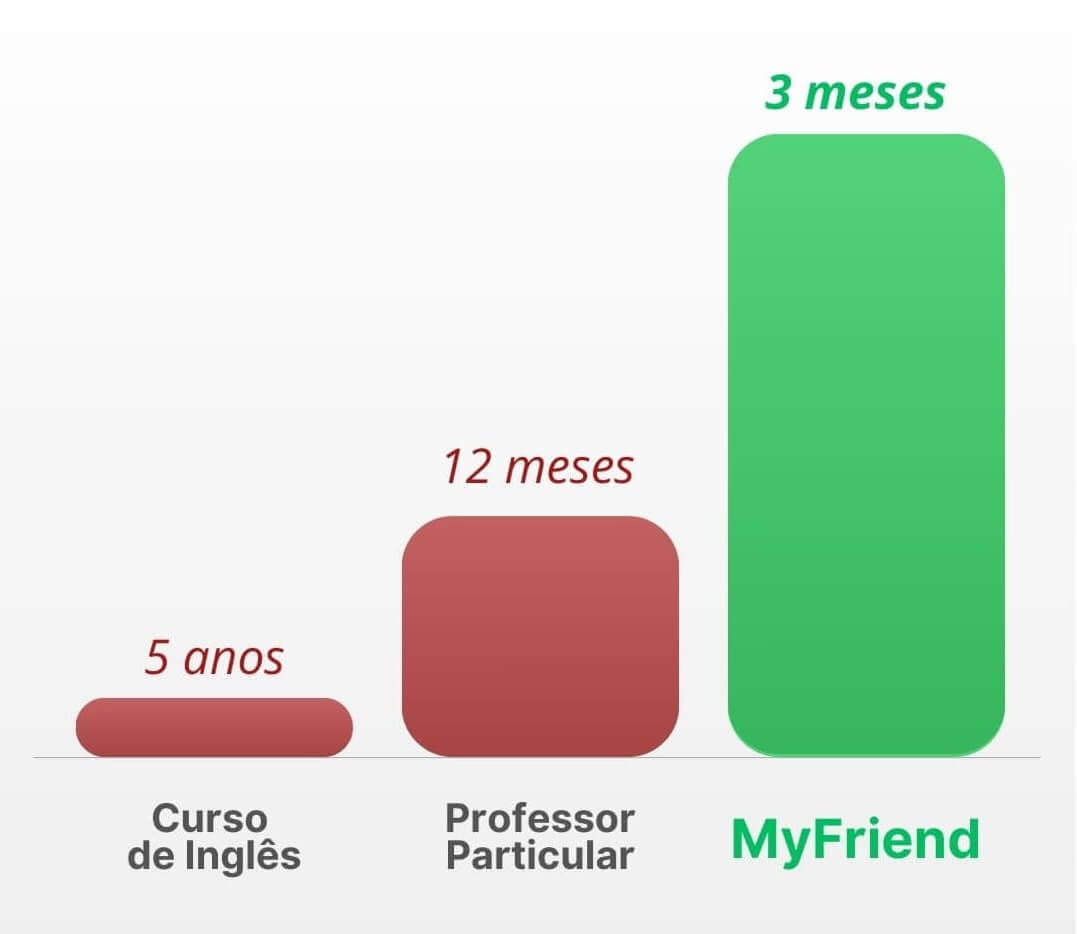
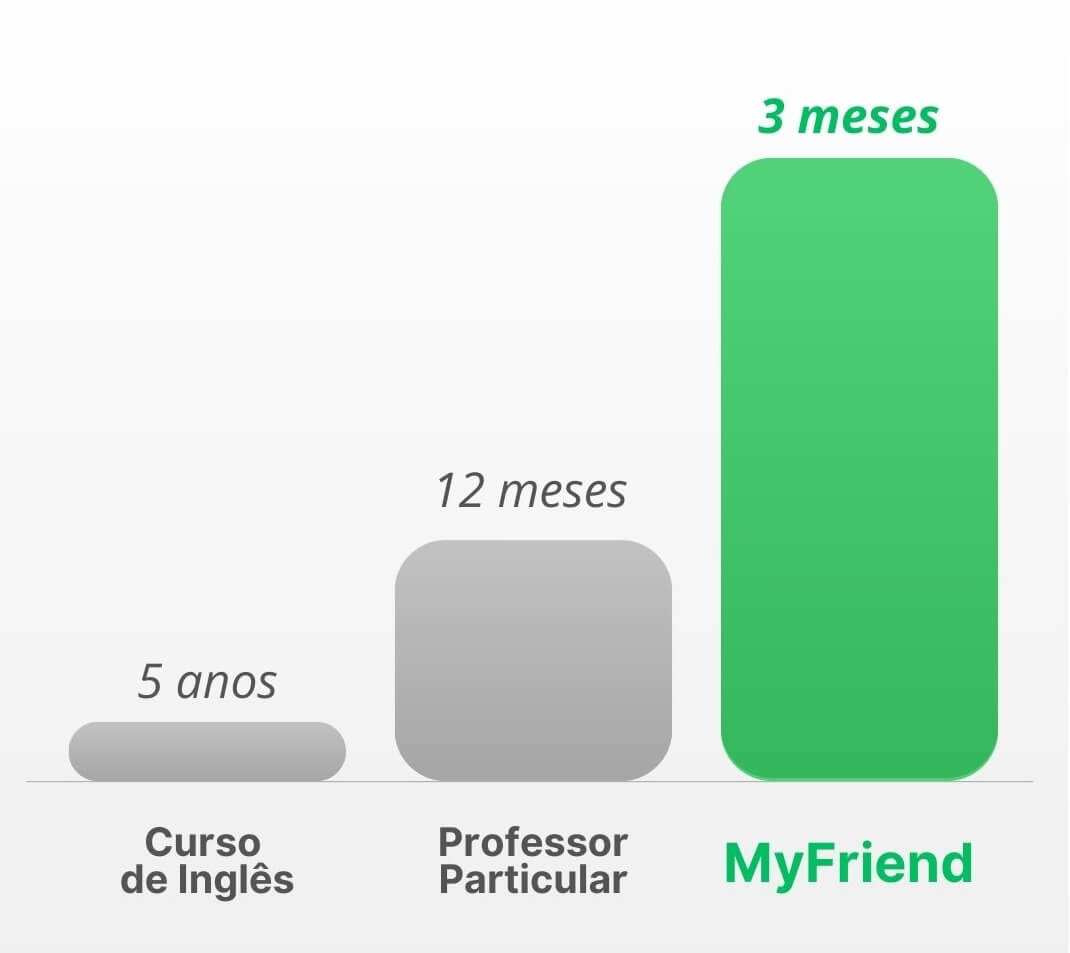
images update

Changed region(s): [[0.0308, 0.1863, 0.9561, 0.9625], [0.6785, 0.0621, 0.9561, 0.2173], [0.6785, 0.8694, 0.9252, 0.9625]]

diff --git a/pgs/deals/gads/seu-1-amigo-gringo.html b/pgs/deals/gads/seu-1-amigo-gringo.html
@@ -215,35 +215,6 @@
                 max-width: 150px;
                 margin: 1.5rem auto;
             }
-
-            /* Styles para os Graphs */
-            [style*="padding: 32px"] {
-                padding: 24px !important;
-            }
-            [style*="font-size: 16px"] {
-                font-size: 14px !important;
-            }
-            [style*="width: 60px"] {
-                width: 40px !important;
-            }
-            [style*="height: 20px"] {
-                height: 15px !important;
-            }
-            [style*="height: 120px"] {
-                height: 80px !important;
-            }
-            [style*="height: 80px"] {
-                height: 50px !important;
-            }
-            [style*="height: 150px"] {
-                height: 100px !important;
-            }
-            [style*="height: 30px"] {
-                height: 20px !important;
-            }
-            [style*="height: 60px"] {
-                height: 40px !important;
-            }
         }
 
         @media (min-width: 768px) {
@@ -466,81 +437,46 @@
             </div>
 
             <!-- Gráficos de Comparação -->     
-            <div style="max-width: 800px; margin: 0 auto; padding: 24px;">
-                <!-- Price Graph -->
-                <div style="background: white; border-radius: 24px; padding: 32px; margin-bottom: 32px; box-shadow: 0 4px 20px rgba(0,0,0,0.03);">
-                    <h2 style="font-size: 20px; font-weight: bold; color: #25d366; margin-bottom: 20px; text-align: center;">Preço:</h2>
-                    <div style="display: flex; justify-content: space-around; align-items: flex-end; gap: 20px;">
-            
-                        <!-- MyFriend Bar -->
-                        <div style="display: flex; flex-direction: column; align-items: center;">
-                            <div style="width: 60px; margin-bottom: 5px; display: flex; align-items: flex-end; justify-content: center;">
-                                <div style="height: 20px; width: 100%; background: #25D366; border-radius: 5px;"></div>
-                            </div>
-                            <span style="font-weight: 600; font-size: 16px; color: #1a1a1a; text-align: center; margin-bottom: -5px; line-height: 1;">MyFriend</span>
-                            <span style="font-size: 14px; color: #999; white-space: nowrap; line-height: 1;">R$ 39/mês</span>
-                        </div>
-            
-                        <!-- Professor Bar -->
-                        <div style="display: flex; flex-direction: column; align-items: center;">
-                            <div style="width: 60px; margin-bottom: 5px; display: flex; align-items: flex-end; justify-content: center;">
-                                <div style="height: 120px; width: 100%; background: #ccc; border-radius: 5px;"></div>
-                            </div>
-                             <span style="font-weight: 600; font-size: 16px; color: #1a1a1a; text-align: center; margin-bottom: -5px; line-height: 1;">Professor Particular</span>
-                            <span style="font-size: 14px; color: #999; white-space: nowrap; line-height: 1;">R$ 800/mês</span>
-                        </div>
-            
-                        <!-- Curso Bar -->
-                        <div style="display: flex; flex-direction: column; align-items: center;">
-                            <div style="width: 60px; margin-bottom: 5px; display: flex; align-items: flex-end; justify-content: center;">
-                                <div style="height: 80px; width: 100%; background: #ccc; border-radius: 5px;"></div>
-                            </div>
-                            <span style="font-weight: 600; font-size: 16px; color: #1a1a1a; text-align: center; margin-bottom: -5px; line-height: 1;">Curso de Inglês</span>
-                            <span style="font-size: 14px; color: #999; white-space: nowrap; line-height: 1;">R$ 400/mês</span>
-                        </div>
+            <div style="max-width: 800px; margin: 0 auto;">
+                <!-- Graphs Container -->
+                <div style="display: flex; flex-wrap: wrap; justify-content: space-between; gap: 10px; padding: 0px;">
+
+                    <!-- Velocity Graph -->
+                    <div style="background: white; border-radius: 24px; box-shadow: 0 4px 20px rgba(0,0,0,0.03); width: calc(50% - 5px); box-sizing: border-box;">
+                        <h2 style="font-size: 20px; font-weight: bold; color: #25d366; margin-top: 15px; text-align: center;">Velocidade de Aprendizado:</h2>
+                        <img src="https://raw.githubusercontent.com/MyFriend-ai/MyFriend/refs/heads/main/assets/images/landing-pages/grafico%201.jpg" alt="Velocity Graph" style="width: 100%; display: block; border-radius: 12px;"/>
                     </div>
-                </div>
-            
-                <!-- Quality Graph -->
-                <div style="background: white; border-radius: 24px; padding: 32px; box-shadow: 0 4px 20px rgba(0,0,0,0.03);">
-                    <h2 style="font-size: 20px; font-weight: bold; color: #25d366; margin-bottom: 20px; text-align: center;">Velocidade de Aprendizado:</h2>
-                    <div style="display: flex; justify-content: space-around; align-items: flex-end; gap: 20px;">
-            
-                        <!-- MyFriend Bar -->
-                        <div style="display: flex; flex-direction: column; align-items: center;">
-                            <div style="width: 60px; margin-bottom: 5px; display: flex; align-items: flex-end; justify-content: center;">
-                                <div style="height: 150px; width: 100%; background: #25D366; border-radius: 5px;"></div>
-                            </div>
-                             <span style="font-weight: 600; font-size: 16px; color: #1a1a1a; text-align: center; margin-bottom: -5px; line-height: 1;">MyFriend</span>
-                            <span style="font-size: 14px; color: #999; white-space: nowrap; line-height: 1;">95%</span>
-                        </div>
-            
-                        <!-- Professor Bar -->
-                        <div style="display: flex; flex-direction: column; align-items: center;">
-                            <div style="width: 60px; margin-bottom: 5px; display: flex; align-items: flex-end; justify-content: center;">
-                                <div style="height: 30px; width: 100%; background: #ccc; border-radius: 5px;"></div>
-                            </div>
-                            <span style="font-weight: 600; font-size: 16px; color: #1a1a1a; text-align: center; margin-bottom: -5px; line-height: 1;">Professor Particular</span>
-                             <span style="font-size: 14px; color: #999; white-space: nowrap; line-height: 1;">85%</span>
-                        </div>
-            
-                        <!-- Curso Bar -->
-                        <div style="display: flex; flex-direction: column; align-items: center;">
-                            <div style="width: 60px; margin-bottom: 5px; display: flex; align-items: flex-end; justify-content: center;">
-                                <div style="height: 60px; width: 100%; background: #ccc; border-radius: 5px;"></div>
-                            </div>
-                            <span style="font-weight: 600; font-size: 16px; color: #1a1a1a; text-align: center; margin-bottom: -5px; line-height: 1;">Curso de Inglês</span>
-                             <span style="font-size: 14px; color: #999; white-space: nowrap; line-height: 1;">65%</span>
-                        </div>
+                    
+                    <!-- Price Graph -->
+                    <div style="background: white; border-radius: 24px; box-shadow: 0 4px 20px rgba(0,0,0,0.03); width: calc(50% - 5px); box-sizing: border-box;">
+                        <h2 style="font-size: 20px; font-weight: bold; color: #25d366; margin-top: 15px; text-align: center;">Preço:</h2>
+                        <img src="https://raw.githubusercontent.com/MyFriend-ai/MyFriend/refs/heads/main/assets/images/landing-pages/grafico%202.jpg" alt="Price Graph" style="width: 100%; display: block; border-radius: 12px;"/>
                     </div>
+
+                    
                 </div>
+            </div>
+            <div style="display: none;">
+                <style>
+                    @media (max-width: 600px) {
+                    [style*="padding: 24px"] {
+                        padding: 10px 0 !important;
+                    }
+                    [style*="width: calc(50% - 5px)"] {
+                        width: 100% !important;
+                    }
+                    [style*="padding: 15px"] {
+                    padding: 10px !important;
+                        }
+                    }
+                </style>
             </div>
 
             
             
             
             <!-- Features -->
-            <div style="max-width: 1000px; margin: 0 auto; padding: 10px 4px;">
+            <div style="max-width: 1000px; margin: 0 auto; margin-top: 40px; padding: 10px 4px;">
                 <!-- Main Title -->
                 <h2 style="font-size: 27px; font-weight: 700; color: #1a1a1a; text-align: center; margin-bottom: 48px;">
                     Um Professor Completo no Seu Bolso:
